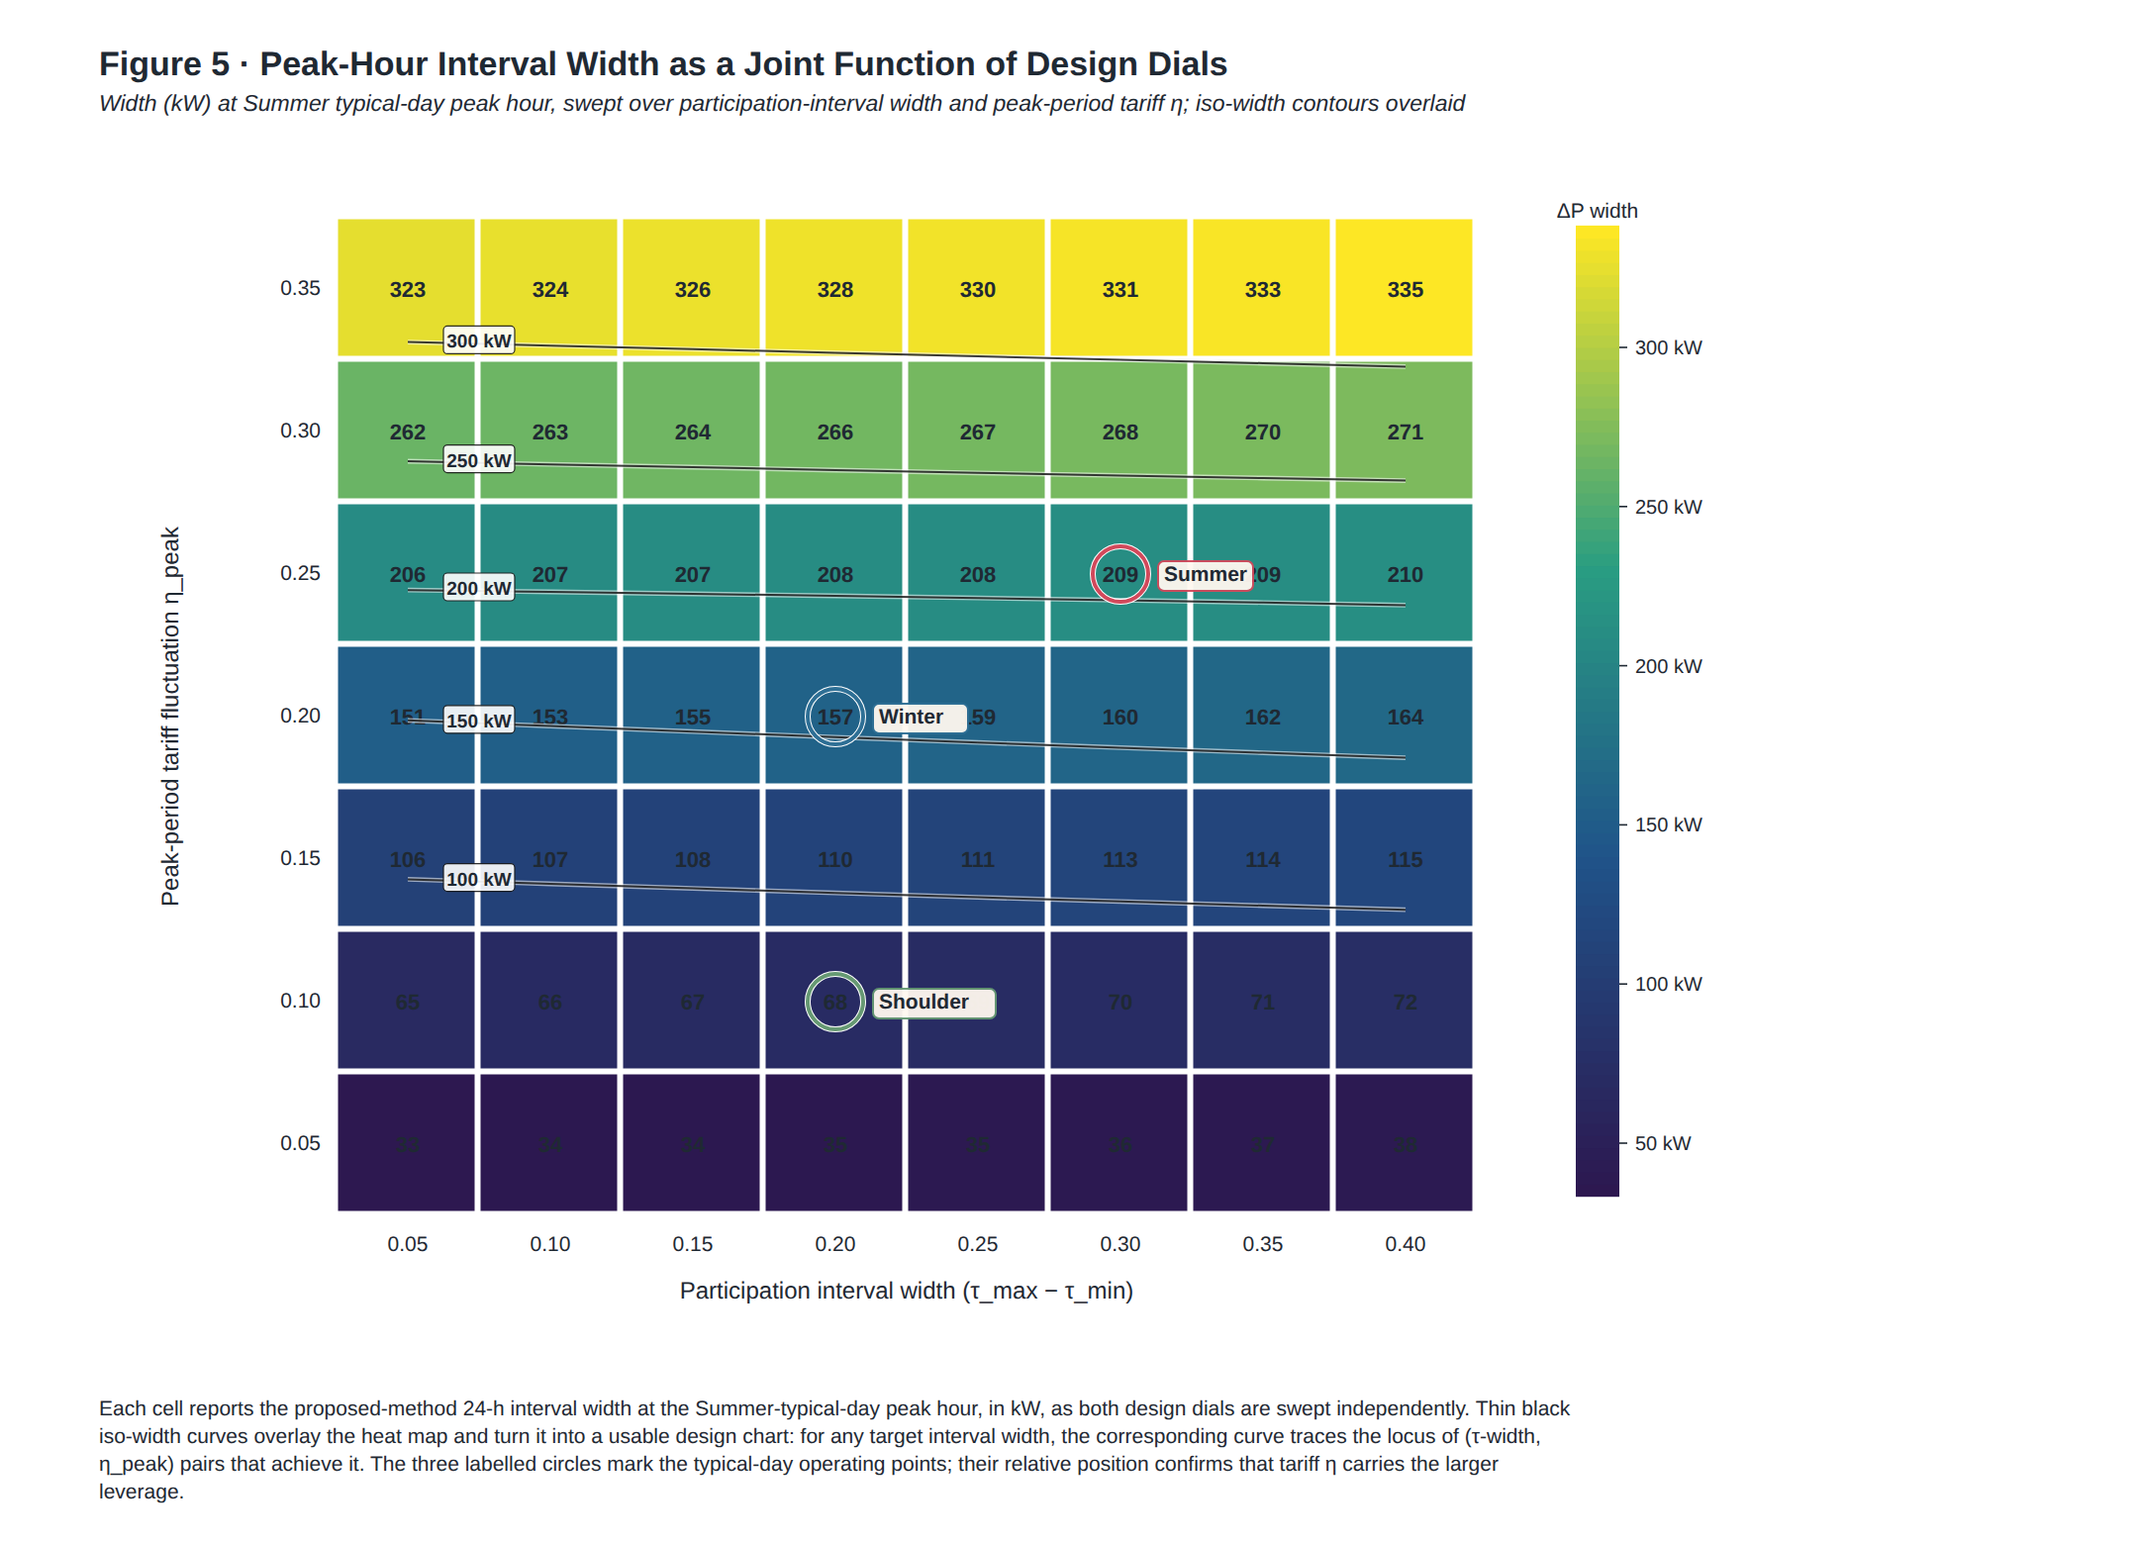
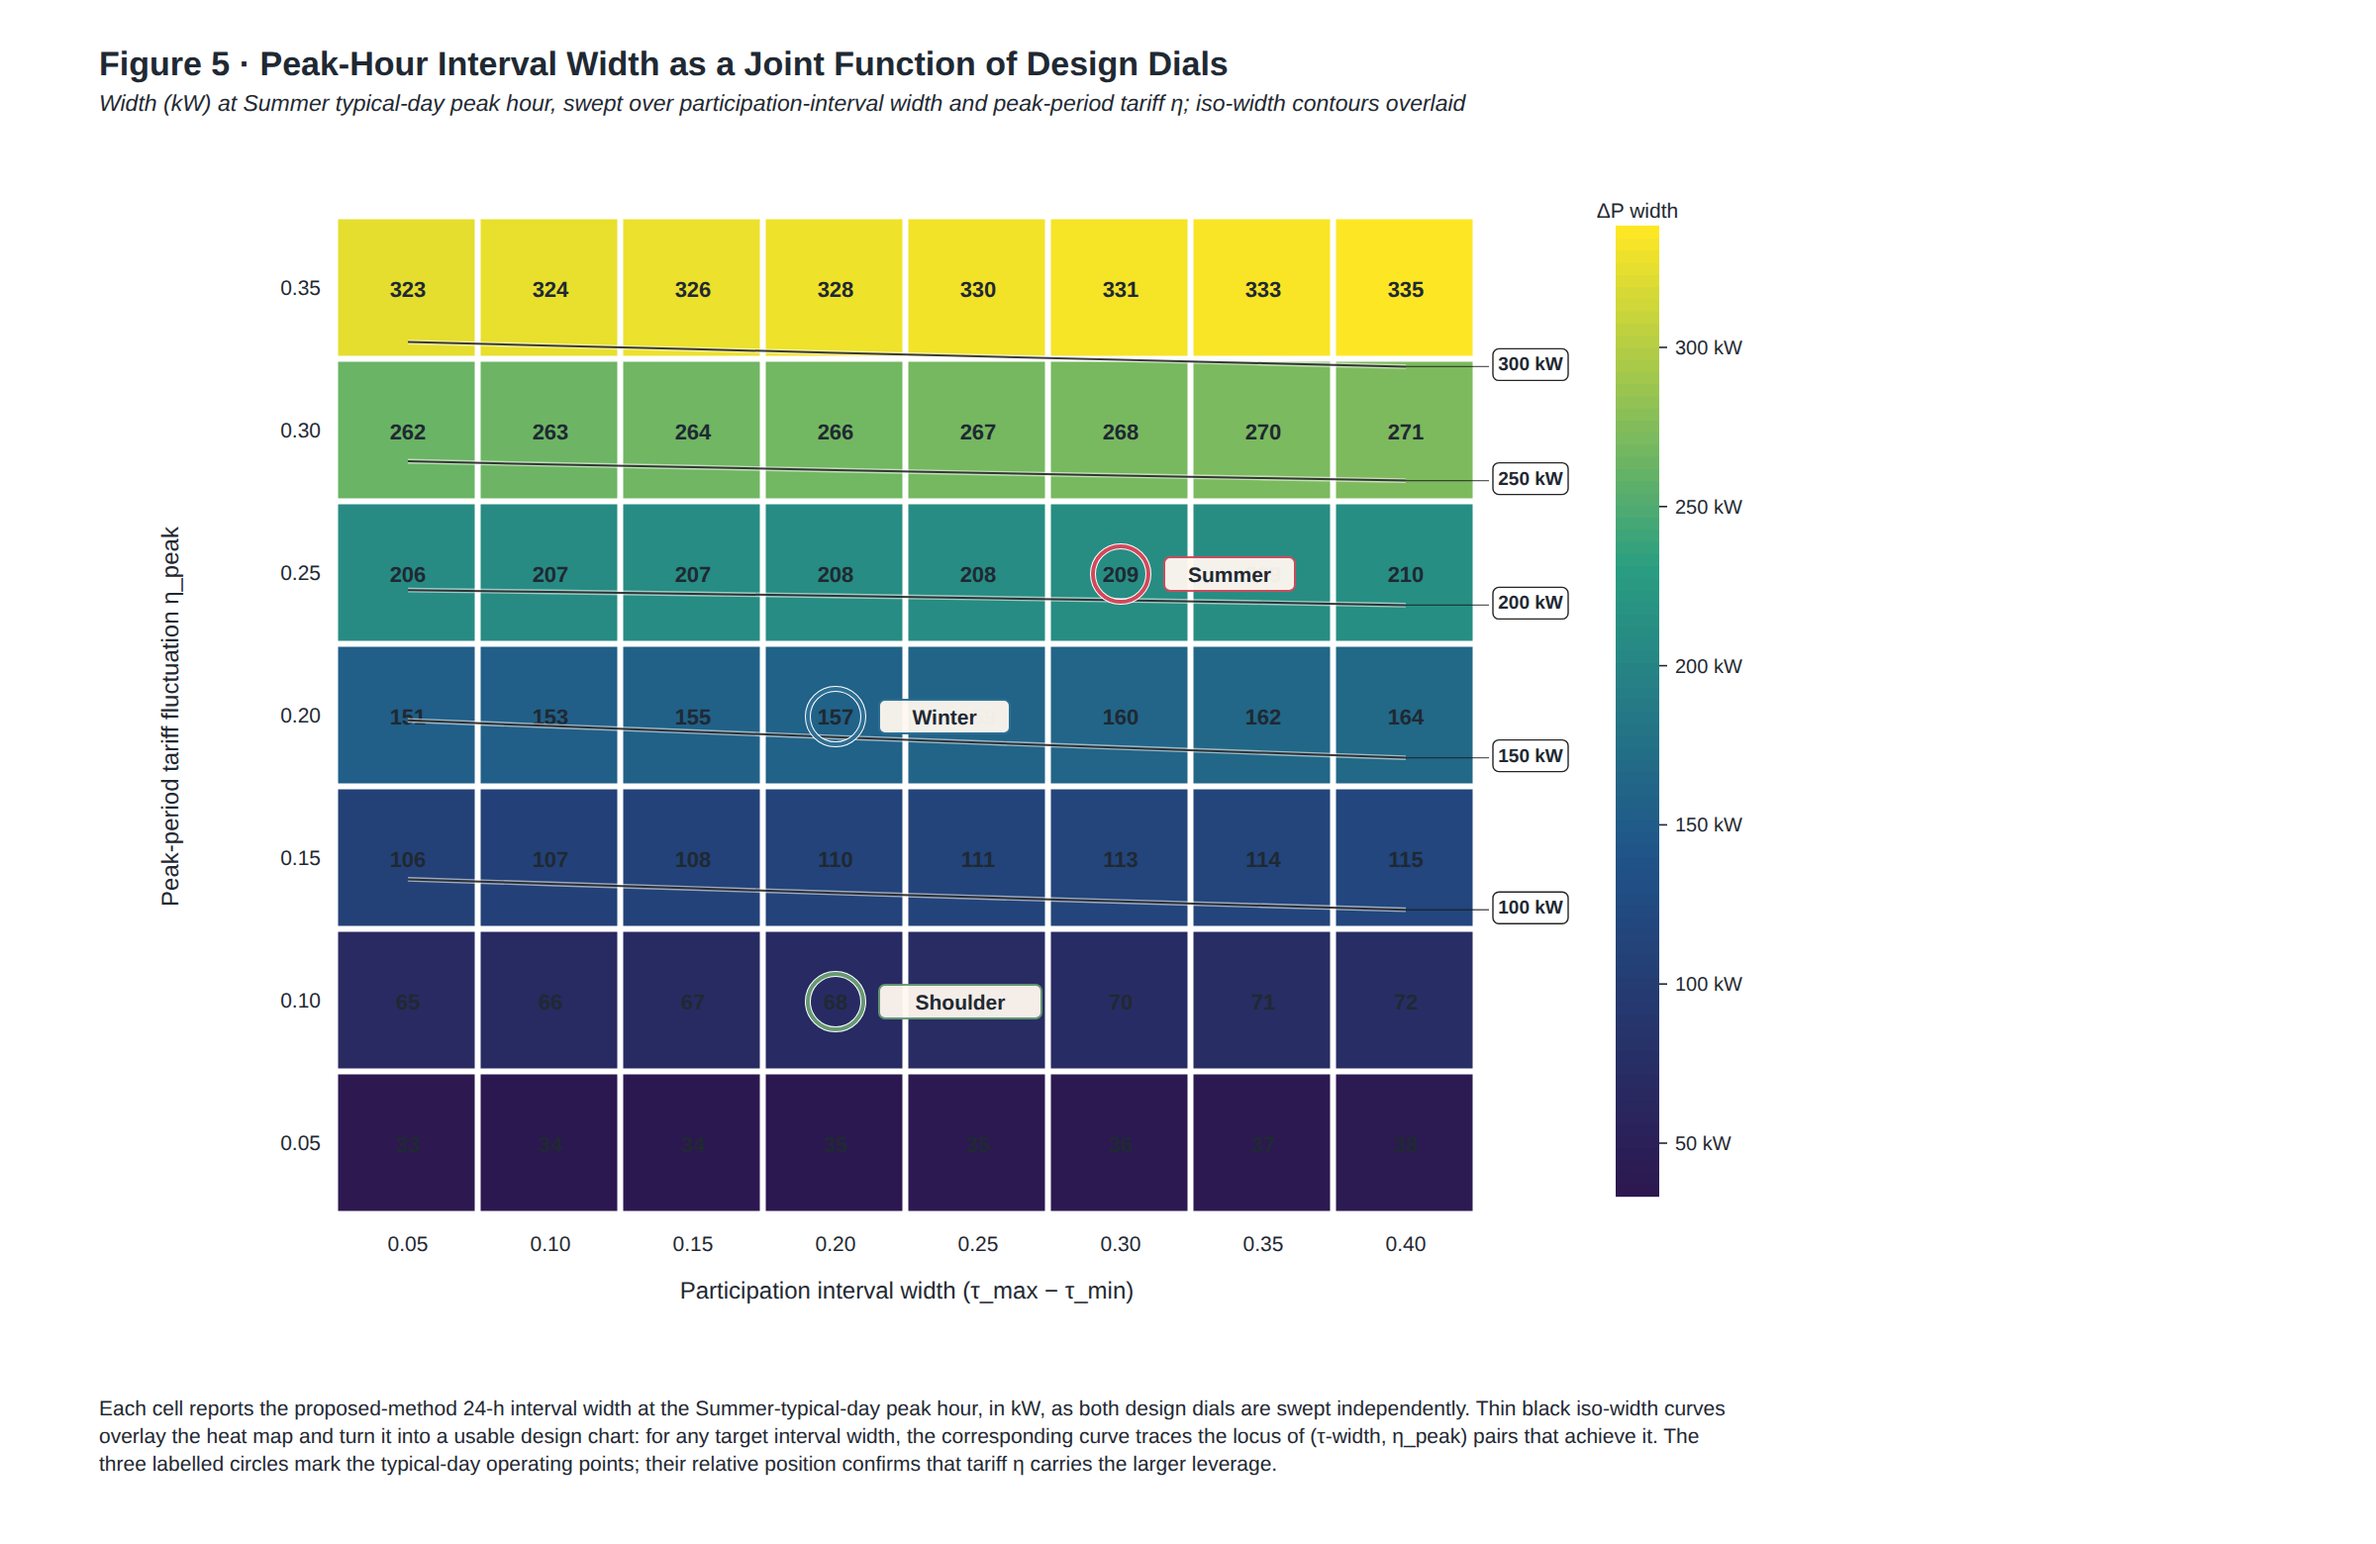
Reflow Fig 5 contour and operating-point labels to stop overlap
Two visual problems in the heat map flagged by review:

1. Iso-width contour labels (100/150/200/250/300 kW) were drawn in
   the middle of the heat map, where they collided with the per-cell
   numeric values (e.g. "200 kW" sitting on top of "207").

   The contour-drawing loop now also records the right-most exit
   point of each contour line. Labels are moved out into a fresh
   gutter between the heat map and the colour bar, anchored at the
   contour's right exit and joined to it with a thin leader. A
   collision-avoidance step nudges labels that would otherwise stack
   onto each other (16 px minimum separation).

2. Operating-point labels ("Summer", "Winter", "Shoulder") had a
   too-narrow white pill: rect_w = len(name)*7 + 6 was based on the
   old Inter font metrics; Word rendered them in Arial, which is
   wider, so the last character spilled outside the box (-> "Summe r",
   "Shoulde r"). The rect is now sized at 8 px / char + 18 px padding,
   and the text uses an explicit text-anchor="middle" placement
   relative to the rect centre.

The canvas is widened from 1080 to 1200 px to absorb the new gutter
and to give the colour bar room to shift right without crowding.

diff --git a/src/svg_to_png.js b/src/svg_to_png.js
@@ -6,7 +6,7 @@ const { chromium } = require('/opt/node22/lib/node_modules/playwright');
 const FIGS = [
   { svg: 'figures/figure_2_envelopes.svg',   png: 'figures/figure_2_envelopes.png',   w: 1280, h: 880 },
   { svg: 'figures/figure_4_convergence.svg', png: 'figures/figure_4_convergence.png', w:  900, h: 580 },
-  { svg: 'figures/figure_5_heatmap.svg',     png: 'figures/figure_5_heatmap.png',     w: 1080, h: 780 },
+  { svg: 'figures/figure_5_heatmap.svg',     png: 'figures/figure_5_heatmap.png',     w: 1200, h: 780 },
 ];
 
 (async () => {

diff --git a/src/render_figures.py b/src/render_figures.py
@@ -355,7 +355,7 @@ def figure_5():
     eta_p = data["eta_peaks"]
     vals = data["values"]   # values[i_eta][j_tau]
 
-    W, H = 1080, 780
+    W, H = 1200, 780
     c = Canvas(W, H)
     title_block(
         c, 50, 38,
@@ -458,11 +458,16 @@ def figure_5():
         }
         return [(e[a], e[b]) for a, b in table[idx]]
 
+    # Draw contour lines first, and remember the rightmost exit point per level
+    # so we can label them out in the right margin instead of on top of cell numbers.
     contour_levels_kw = [100, 150, 200, 250, 300]  # contour values in kW
+    contour_exits: dict[int, tuple[float, float]] = {}
     for level_kw in contour_levels_kw:
         level = level_kw / 1000.0  # back to MW for comparison with vals
         if level < vmin or level > vmax:
             continue
+        max_x = -1.0
+        max_pt = None
         for i in range(nrows - 1):
             for j in range(ncols - 1):
                 for (a, b) in _cell_segments(level, i, j):
@@ -474,28 +479,41 @@ def figure_5():
                         f'<line x1="{a[0]:.1f}" y1="{a[1]:.1f}" x2="{b[0]:.1f}" y2="{b[1]:.1f}" '
                         f'stroke="#1a1a1a" stroke-width="1.0" opacity="0.85"/>'
                     )
-        # label one segment per contour: pick the first segment we find with i in middle
-        labelled = False
-        for i in range(nrows - 1):
-            if labelled:
-                break
-            for j in range(ncols - 1):
-                segs = _cell_segments(level, i, j)
-                if segs:
-                    (a, b) = segs[0]
-                    mx = (a[0] + b[0]) / 2
-                    my = (a[1] + b[1]) / 2
-                    # small white pill behind label
-                    c.add(
-                        f'<rect x="{mx-18:.1f}" y="{my-9:.1f}" width="36" height="14" '
-                        f'fill="white" stroke="#1a1a1a" stroke-width="0.6" rx="2" opacity="0.9"/>'
-                    )
-                    c.add(
-                        f'<text x="{mx:.1f}" y="{my+2:.1f}" text-anchor="middle" '
-                        f'font-size="9.5" font-weight="600" fill="#1a1a1a">{level_kw} kW</text>'
-                    )
-                    labelled = True
-                    break
+                    # track the rightmost contour endpoint so we know where to anchor the label
+                    for pt in (a, b):
+                        if pt[0] > max_x:
+                            max_x = pt[0]
+                            max_pt = pt
+        if max_pt is not None:
+            contour_exits[level_kw] = max_pt
+
+    # Labels live in the right-side gutter between heatmap and colorbar.
+    label_x  = hx + hw + 8      # rect-left anchor, just past heatmap right edge
+    label_w  = 38
+    used_ys: list[float] = []
+    # Sort levels by descending y (low η at bottom of heat map) so collision-avoidance pushes upward.
+    for level_kw in sorted(contour_exits, key=lambda k: -contour_exits[k][1]):
+        ex, ey = contour_exits[level_kw]
+        ly = ey
+        # nudge so labels never collide with each other (min 16 px apart)
+        for prev in used_ys:
+            if abs(ly - prev) < 16:
+                ly = prev - 18 if ly <= prev else prev + 18
+        used_ys.append(ly)
+        # leader from contour exit to label
+        c.add(
+            f'<line x1="{ex:.1f}" y1="{ey:.1f}" x2="{label_x - 2:.1f}" y2="{ly:.1f}" '
+            f'stroke="#1a1a1a" stroke-width="0.7" opacity="0.7"/>'
+        )
+        # white pill label
+        c.add(
+            f'<rect x="{label_x:.1f}" y="{ly-9:.1f}" width="{label_w}" height="16" '
+            f'fill="white" stroke="#1a1a1a" stroke-width="0.7" rx="3" opacity="0.95"/>'
+        )
+        c.add(
+            f'<text x="{label_x + label_w/2:.1f}" y="{ly+2:.1f}" text-anchor="middle" '
+            f'font-size="9.5" font-weight="600" fill="#1a1a1a">{level_kw} kW</text>'
+        )
 
     # ---- axis labels ----
     for j, tw in enumerate(tau_w):
@@ -523,7 +541,7 @@ def figure_5():
     )
 
     # ---- color bar ----
-    cb_x = hx + hw + 50
+    cb_x = hx + hw + 70   # extra margin to leave room for the contour-label gutter
     cb_y = hy + 10
     cb_w = 22
     cb_h = hh - 20
@@ -575,15 +593,20 @@ def figure_5():
             f'<circle cx="{cx_b:.1f}" cy="{cy_b:.1f}" r="14" fill="none" '
             f'stroke="{edge}" stroke-width="2"/>'
         )
+        # generously sized label rect (Arial at 10.5 pt needs ~7.5 px / char;
+        # the previous estimate of 7 px / char left the trailing character of
+        # "Summer" / "Shoulder" outside the white box in some renderers).
+        rect_w = len(name) * 8 + 18
+        rect_h = 17
         lx = cx_b + 22
-        ly = cy_b + 3.5
+        ly = cy_b
         c.add(
-            f'<rect x="{lx-3:.1f}" y="{ly-10:.1f}" width="{len(name)*7+6:.0f}" height="15" '
+            f'<rect x="{lx:.1f}" y="{ly - rect_h/2:.1f}" width="{rect_w}" height="{rect_h}" '
             f'fill="{halo}" stroke="{edge}" stroke-width="1" rx="3" opacity="0.95"/>'
         )
         c.add(
-            f'<text x="{lx:.1f}" y="{ly:.1f}" font-size="10.5" font-weight="600" '
-            f'fill="{edge}">{name}</text>'
+            f'<text x="{lx + rect_w/2:.1f}" y="{ly + 4:.1f}" text-anchor="middle" '
+            f'font-size="10.5" font-weight="600" fill="{edge}">{name}</text>'
         )
 
     caption(c, 50, H - 65, W - 100,
